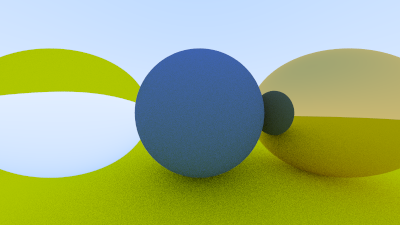
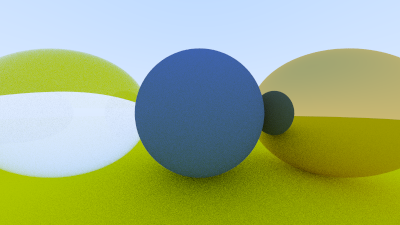
10.4 schlick

Changed region(s): [[0.0, 0.1867, 0.36, 0.4667], [0.0, 0.6533, 0.33, 0.8089], [0.33, 0.5911, 0.36, 0.6533]]

diff --git a/material.h b/material.h
@@ -63,11 +63,22 @@ public:
 		const double sin_theta = sqrt(1.0 - cos_theta*cos_theta);
 
 		const bool cannot_refract = refraction_ratio * sin_theta > 1.0;
-		const vec3 direction = cannot_refract ? reflect(unit_direction, rec.normal) : refract(unit_direction, rec.normal, refraction_ratio);
+		const vec3 direction = cannot_refract || reflectance(cos_theta, refraction_ratio) > random_double()
+			? reflect(unit_direction, rec.normal)
+			: refract(unit_direction, rec.normal, refraction_ratio);
 
 		scattered = ray(rec.p, direction);
 		return true;
 	}
 
 	double ir; // index of refraction
+
+private:
+	static double reflectance(double cosine, double ref_idx)
+	{
+		// use schlick's approximation for reflectance
+		auto r0 = (1.0-ref_idx) / (1.0+ref_idx);
+		r0 = r0*r0;
+		return r0 + (1.0-r0)*pow(1.0-cosine, 5.0);
+	}
 };
